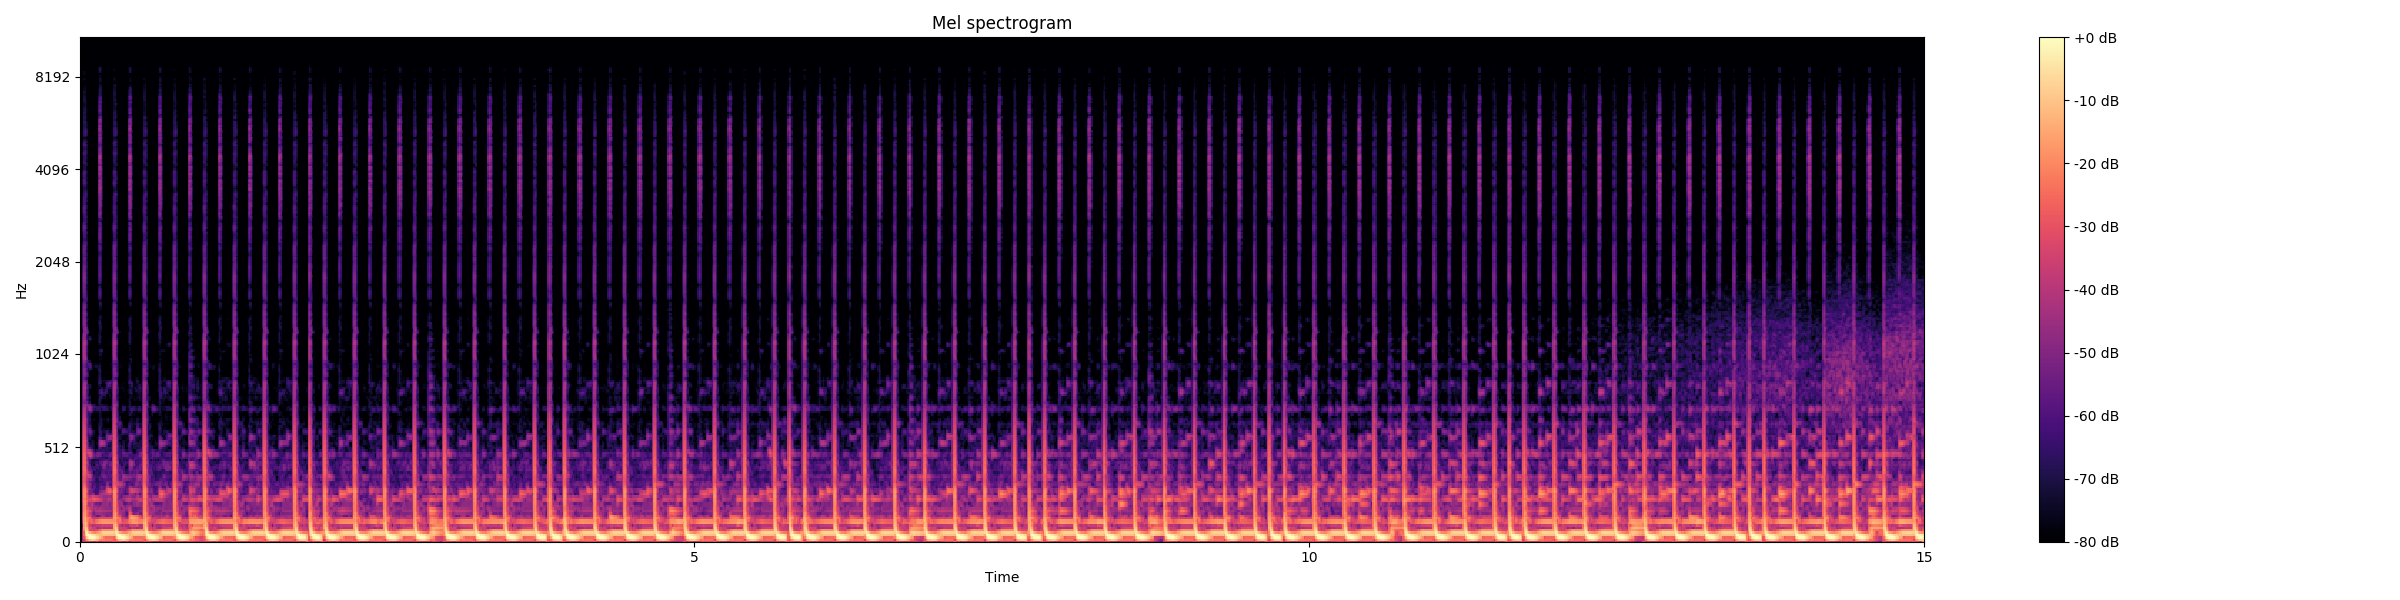
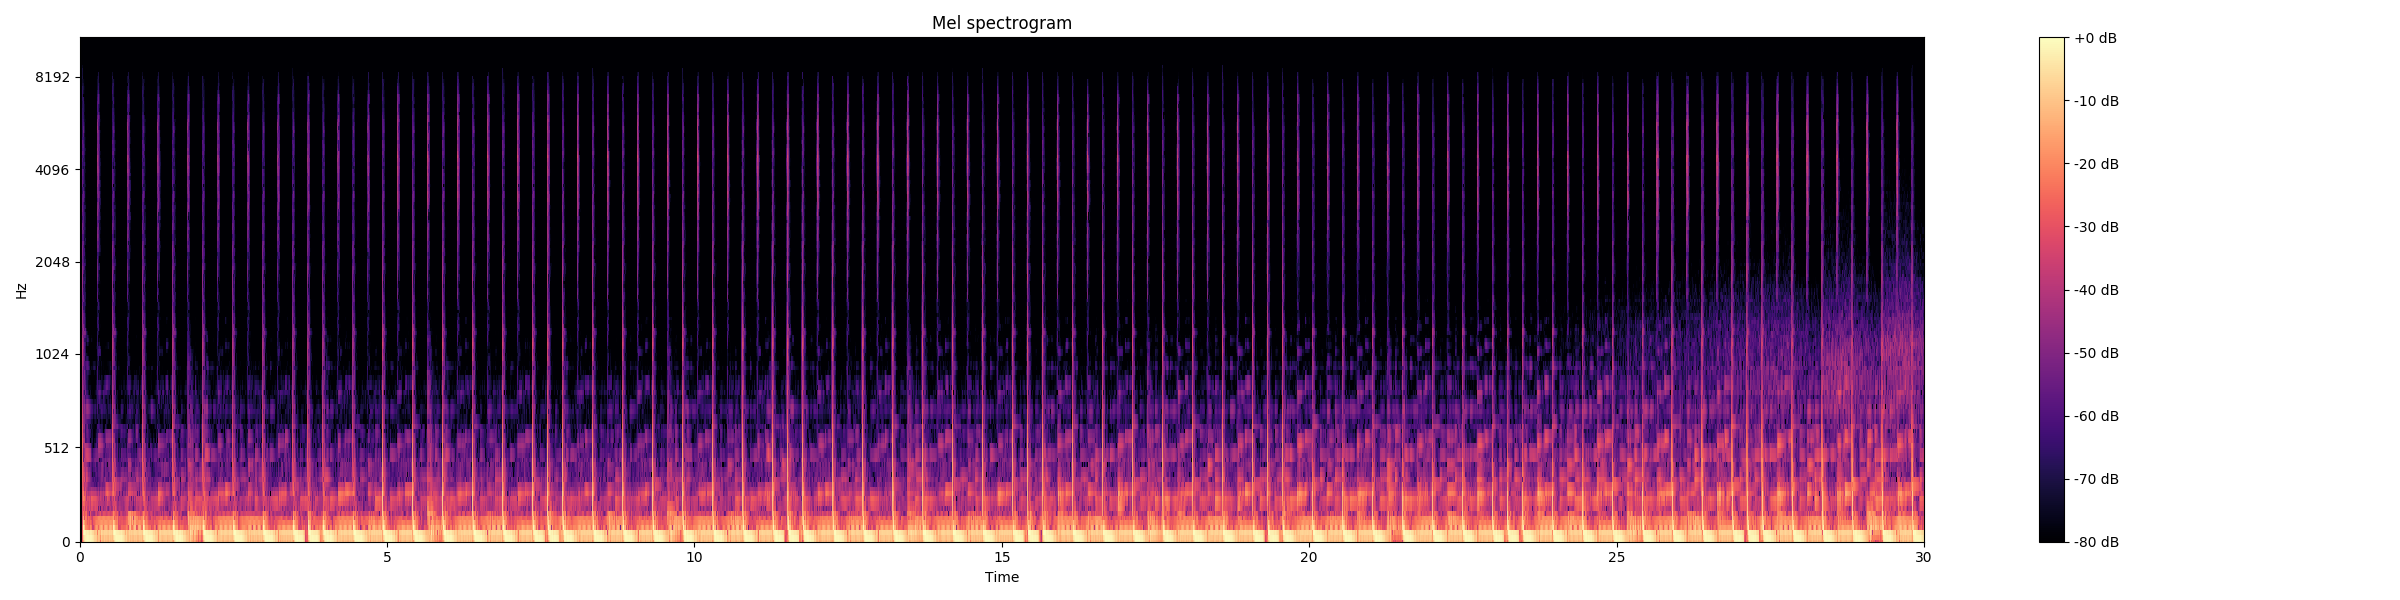
Playing around with the architectures

Changed region(s): [[0.0312, 0.12, 0.8125, 0.93]]

diff --git a/deep_features/features.py b/deep_features/features.py
@@ -12,14 +12,19 @@ from tqdm import tqdm
 
 filename = "./relish_it.mp3"
 duration = 30
-n_fft = 2**12        # shortest human-disting. sound (music)
-hop_length = 2**10    # => 75% overlap of frames
+n_fft = 2**10        # shortest human-disting. sound (music)
+hop_length = 2**9    # => 50% overlap of frames
 n_mels = 256
 n_epochs = 400
 batch_size = 16
 l_rate = 1e-4
-DEBUG = True
-num_workers=6
+DEBUG = False
+num_workers = 8
+device = "cuda:1"
+datapath = "./mels_set_db"
+#datapath = "./mels_set_f1024_b128"
+statepath = "conv_small_b256"
+#statepath = "conv_small_b128"
 
 y, sr = librosa.load(filename, mono=True, duration=duration, sr=44100)
 
@@ -53,7 +58,7 @@ def plot_spectogram():
     return fft
 
 def plot_melspectogram():
-    mel = librosa.feature.melspectrogram(y, sr=sr, n_fft=n_fft, hop_length=hop_length, n_mels=n_mels) #window of about 10ms 
+    mel = librosa.feature.melspectrogram(y, sr=sr, n_fft=n_fft, hop_length=hop_length, n_mels=n_mels) #window of about 10ms
     plt.figure(figsize=(24, 6))
     dsp.specshow(librosa.power_to_db(mel, ref=np.max), y_axis="mel", x_axis="time", sr=sr)
     plt.title("Mel spectrogram")
@@ -73,7 +78,7 @@ def plot_melspectogram():
 #print(mel.shape)
 #exit()
 
-dset = SoundfileDataset("./all_metadata.p", ipath="./mels_set_db", out_type="mel")
+dset = SoundfileDataset("./all_metadata.p", ipath=datapath, out_type="mel")
 if DEBUG:
     dset.data = dset.data[:2000]
 
@@ -90,14 +95,14 @@ optimizer = optim.Adam(model.parameters(), lr=l_rate)
 scheduler = optim.lr_scheduler.ReduceLROnPlateau(optimizer, patience=10, verbose=True)
 
 val_loss_list, val_accuracy_list, epoch_list = [], [], []
-loss_function.to("cuda")
-model.to("cuda")
+loss_function.to(device)
+model.to(device)
 
 for epoch in tqdm(range(n_epochs), desc='Epoch'):
     train_running_loss, train_acc = 0.0, 0.0
     for X, y in tqdm(TLoader, desc="Training"):
-        model.hidden = model.init_hidden()
-        X, y = X.cuda(), y.cuda()
+        model.hidden = model.init_hidden(device)
+        X, y = X.to(device), y.to(device)
         model.zero_grad()
         out = model(X)
         del X
@@ -112,8 +117,8 @@ for epoch in tqdm(range(n_epochs), desc='Epoch'):
     val_running_loss, val_acc = 0.0, 0.0
     model.eval()
     for X, y in tqdm(VLoader, desc="Validation"):
-        model.hidden = model.init_hidden()
-        X, y = X.cuda(), y.cuda()
+        model.hidden = model.init_hidden(device)
+        X, y = X.to(device), y.to(device)
         out = model(X)
         del X
         val_loss = loss_function(out, y)
@@ -136,23 +141,25 @@ for epoch in tqdm(range(n_epochs), desc='Epoch'):
 
     if (epoch+1)%10 == 0:
         state = {'state_dict':model.state_dict(), 'optim':optimizer.state_dict(), 'epoch_list':epoch_list, 'val_loss':val_loss_list, 'accuracy':val_accuracy_list}
-        filename = "./states/lstm_{:02d}.nn".format(epoch)
+        filename = "./{}/lstm_{:02d}.nn".format(statepath, epoch)
         torch.save(state, filename)
         del state
         torch.cuda.empty_cache()
 
 # visualization loss
 plt.plot(epoch_list, val_loss_list)
+plt.ylim(0, np.max(val_loss_list))
 plt.xlabel("# of epochs")
 plt.ylabel("Loss")
 plt.title("LSTM: Loss vs # epochs")
-plt.savefig("val_loss.png")
+plt.savefig("./{}/val_loss.png".format(statepath))
 plt.clf()
 
 # visualization accuracy
 plt.plot(epoch_list, val_accuracy_list, color="red")
+plt.ylim(0, 100)
 plt.xlabel("# of epochs")
 plt.ylabel("Accuracy")
 plt.title("LSTM: Accuracy vs # epochs")
-plt.savefig("val_acc.png")
+plt.savefig("./{}/val_acc.png".format(statepath))
 plt.clf()

diff --git a/deep_features/model.py b/deep_features/model.py
@@ -10,16 +10,16 @@ class LSTM(nn.Module):
         self.input_dim = input_dim
         self.batch_size = batch_size
         self.num_layers = num_layers
-        self.hidden_dim1 = 256
-        self.hidden_dim2 = 128
-        self.hidden_dim3 = 64
+        self.hidden_dim1 = 128 #128
+        self.hidden_dim2 = 64 #64
+        self.hidden_dim3 = 32 #32
         self.hidden_dim4 = 128
         self.hidden_dim5 = 64
-        self.lstm_hidden = 96
-        self.linear_dim = 64
+        self.lstm_hidden = 64 #64
+        self.linear_dim = 32 #32
 
-        self.conv1 = nn.Conv1d(self.input_dim, self.hidden_dim1, 3)
-        self.conv2 = nn.Conv1d(self.hidden_dim1, self.hidden_dim2, 3)
+        self.conv1 = nn.Conv1d(self.input_dim, self.hidden_dim1, 7)
+        self.conv2 = nn.Conv1d(self.hidden_dim1, self.hidden_dim2, 5)
         self.conv3 = nn.Conv1d(self.hidden_dim2, self.hidden_dim3, 3)
         self.conv4 = nn.Conv1d(self.lstm_hidden, self.hidden_dim4, 3)
         self.conv5 = nn.Conv1d(self.hidden_dim4, self.hidden_dim5, 3)
@@ -38,15 +38,25 @@ class LSTM(nn.Module):
 
         # Define the LSTM layer
         self.lstm = nn.LSTM(self.hidden_dim3, self.lstm_hidden, self.num_layers, batch_first=True)
+        #self.lstm = nn.LSTM(self.input_dim, self.lstm_hidden, self.num_layers, batch_first=True)
 
         # Define the output layer
-        self.linear = nn.Linear(15264, self.linear_dim)
+        #self.linear = nn.Linear(15264, self.linear_dim)
+        self.linear = nn.Linear(self.lstm_hidden, self.linear_dim)
         self.output = nn.Linear(self.linear_dim, output_dim)
+        #self.output = nn.Linear(self.lstm_hidden, output_dim)
 
-    def init_hidden(self):
+    def init_hidden(self, device):
         # This is what we'll initialise our hidden state as
-        return (torch.zeros(self.num_layers, self.batch_size, self.lstm_hidden).cuda(),
-                torch.zeros(self.num_layers, self.batch_size, self.lstm_hidden).cuda())
+        return (torch.zeros(self.num_layers, self.batch_size, self.lstm_hidden).to(device),
+                torch.zeros(self.num_layers, self.batch_size, self.lstm_hidden).to(device))
+
+    def forwardBug(self, X):
+        lstm_out, hidden = self.lstm(X, self.hidden)
+        X = lstm_out[:,-1].view(X.shape[0], -1)
+        X = self.output(X)
+        X = F.log_softmax(X, dim=1)
+        return X
 
     def forward(self, X):
         #print(X.shape)
@@ -88,7 +98,8 @@ class LSTM(nn.Module):
         X = self.convDrop(X) """
 
         # Only take the output from the final timestep
-        X = lstm_out.contiguous().view(X.shape[0], -1)
+        #X = lstm_out.contiguous().view(X.shape[0], -1)
+        X = lstm_out[:,-1].view(X.shape[0], -1)
         X = self.linear(X)
         X = self.relu(X)
         X = self.normLinear(X)

diff --git a/deep_features/convert_data_to_mels.py b/deep_features/convert_data_to_mels.py
@@ -6,7 +6,7 @@ import multiprocessing
 from tqdm import tqdm
 
 INPATH  = "./fma_small"
-OUTPATH = "./mels_set_db"
+OUTPATH = "./mels_set_f1024_b128"
 
 def save_mel(paths):
     
@@ -16,9 +16,9 @@ def save_mel(paths):
 
         song, sr = librosa.load(inpath, mono=True, sr=44100)
 
-        n_fft = 2**11         # shortest human-disting. sound (music)
+        n_fft = 2**10         # shortest human-disting. sound (music)
         hop_length = 2**9    # => 75% overlap of frames
-        n_mels = 256
+        n_mels = 128
 
         if len(song) < n_fft:
             return

diff --git a/deep_features/dataset.py b/deep_features/dataset.py
@@ -125,7 +125,10 @@ class SoundfileDataset(Dataset):
         this = self.data[idx]
 
         if self.out_type == 'mel':
-            X = np.load(os.path.join(self.ipath, this.path[:-3]) + "npy").T[:1290,:]
+            X = np.load(os.path.join(self.ipath, this.path[:-3]) + "npy")
+            #print(X.shape)
+            #X = X.T[:1290,:]
+            X = X.T[:2580,:]
         else:
             try:
                 song, sr = librosa.load(os.path.join(self.ipath, this.path))
